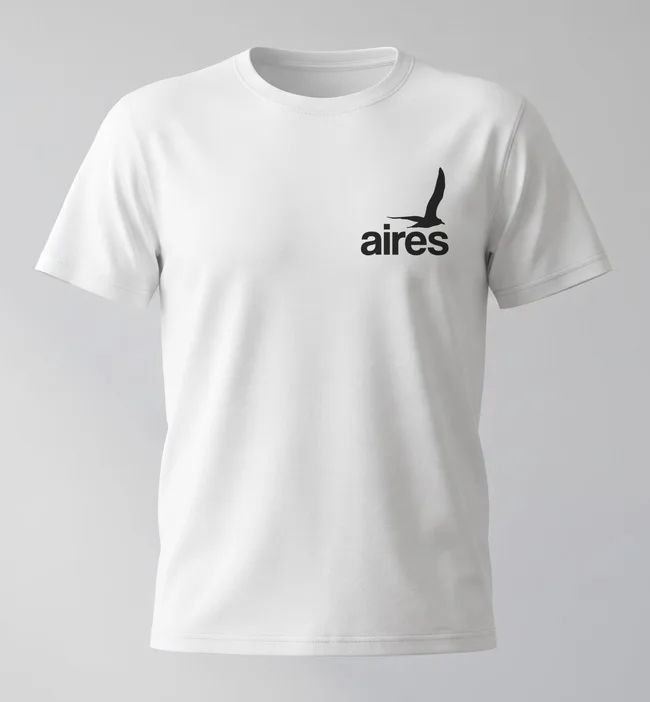
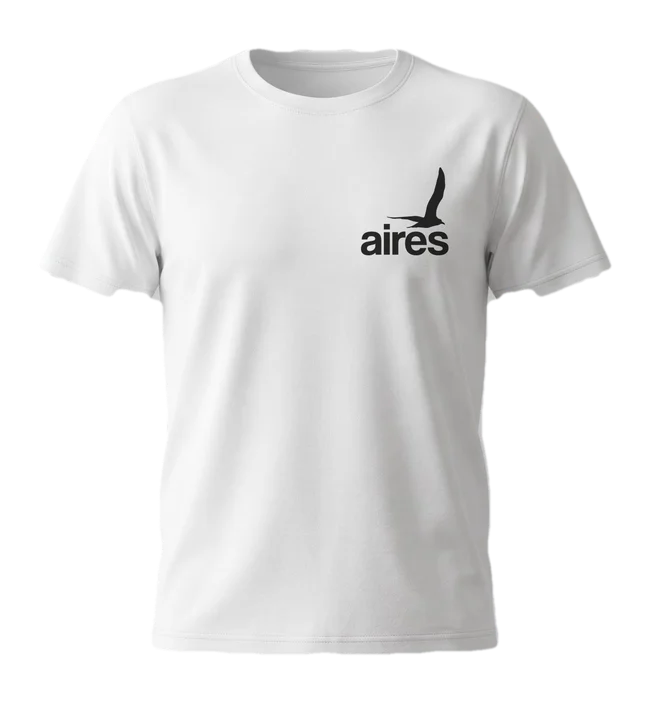
Giro continuo con fotos sin fondo, fundido sólido y ancho que se acomoda
Claude-Session: https://claude.ai/code/session_01QfLY8cxD3ko1FcmjiaKJgZ

diff --git a/index.html b/index.html
@@ -61,14 +61,14 @@ header .wrap{display:flex;align-items:center;justify-content:space-between;gap:1
 .ghostlogo{position:absolute;right:-6%;bottom:-6%;width:min(78%,420px);height:auto;fill:none;stroke:var(--line);stroke-width:.45;pointer-events:none;transform:translateX(calc(var(--p,0)*-70px)) rotate(calc(var(--p,0)*-4deg))}
 .halo{position:absolute;width:min(96%,440px);aspect-ratio:1;border-radius:50%;border:1.5px solid color-mix(in srgb,var(--accent) 55%,transparent);box-shadow:0 0 90px color-mix(in srgb,var(--accent) 28%,transparent),inset 0 0 70px color-mix(in srgb,var(--accent) 14%,transparent);animation:halo 9s ease-in-out infinite;transform:scale(calc(1 + var(--p,0)*.25));opacity:calc(1 - var(--p,0)*.6)}
 /* Inicio: una remera que gira suave y constante (6s = una vuelta; subí el número para más lento) */
-.spin-wrap{position:relative;z-index:1;width:min(78%,360px);display:grid;justify-items:center;gap:22px;perspective:1400px;
+.spin-wrap{position:relative;z-index:1;width:min(84%,390px);display:grid;justify-items:center;gap:22px;perspective:1400px;
   translate:0 calc(var(--p,0)*-40px);scale:calc(1 - var(--p,0)*.08);
   transform:rotateX(calc(var(--my,0)*-8deg)) rotateY(calc(var(--mx,0)*10deg));transform-style:preserve-3d;
   animation:drop 1.2s cubic-bezier(.2,.8,.2,1) .25s backwards}
 /* Giro con 6 fotos (frente, 3/4, costado, espalda, costado, 3/4) que se funden entre sí */
-.spin{position:relative;width:100%;aspect-ratio:650/702;border-radius:22px;overflow:hidden;background:#c9c9c9;
-  box-shadow:0 30px 70px rgba(0,0,0,.55),0 0 0 1px rgba(255,255,255,.08)}
+.spin{position:relative;width:100%;aspect-ratio:650/702;filter:drop-shadow(0 26px 22px rgba(0,0,0,.5))}
 .spin img{position:absolute;inset:0;width:100%;height:100%;object-fit:cover;opacity:0}
+.spin canvas{position:absolute;inset:0;width:100%;height:100%}
 .spin img.on{opacity:1}
 .spin-wrap .stamp{position:static;transform:rotate(-4deg)}
 
@@ -487,15 +487,23 @@ footer .wrap{padding-block:28px;display:flex;flex-wrap:wrap;justify-content:spac
   // Video del inicio: si la persona pidió menos movimiento, queda en pausa
   // Remera que gira: va fundiendo una foto con la siguiente (VUELTA = segundos por vuelta completa)
   const VUELTA=6;
+  const AN=[571,387,248,571,248,387]; // ancho de la remera en cada foto (frente, 3/4, costado, espalda, costado, 3/4)
   const sp=$("spin");
   if(sp&&!matchMedia("(prefers-reduced-motion: reduce)").matches){
-    const im=[...sp.querySelectorAll("img")],n=im.length;let t0=null;
-    const ss=x=>x*x*(3-2*x);
+    // Se dibuja en un canvas sumando las dos fotos ("lighter"): así el fundido queda sólido, sin transparencias
+    const im=[...sp.querySelectorAll("img")],n=im.length;
+    const cv=document.createElement("canvas");cv.width=650;cv.height=702;const cx=cv.getContext("2d");
+    let t0=null,started=false;
     const step=t=>{
-      if(t0===null)t0=t;
-      const a=((t-t0)/1000/VUELTA*n)%n,i=Math.floor(a),f=a-i,j=(i+1)%n;
-      const k=ss(Math.min(Math.max((f-.1)/.9,0),1)); // casi todo el tiempo se va fundiendo con la siguiente: giro continuo
-      im.forEach((el,x)=>{el.style.opacity=x===i?1:x===j?k:0});
+      if(im.every(x=>x.complete&&x.naturalWidth)){
+        if(!started){started=true;sp.appendChild(cv);im.forEach(x=>x.style.visibility="hidden");t0=t}
+        const a=((t-t0)/1000/VUELTA*n)%n,i=Math.floor(a),k=a-i,j=(i+1)%n;
+        // las dos fotos se estiran/angostan para coincidir en ancho mientras se funden (parece que gira)
+        const W=AN[i]+(AN[j]-AN[i])*k;
+        const draw=(x,al,op)=>{const sx=W/AN[x],w=650*sx;cx.globalCompositeOperation=op;cx.globalAlpha=al;cx.drawImage(im[x],324-324*sx,0,w,702)};
+        cx.globalCompositeOperation="source-over";cx.globalAlpha=1;cx.clearRect(0,0,650,702);
+        draw(i,1-k,"source-over");draw(j,k,"lighter");
+      }
       requestAnimationFrame(step);
     };
     requestAnimationFrame(step);
